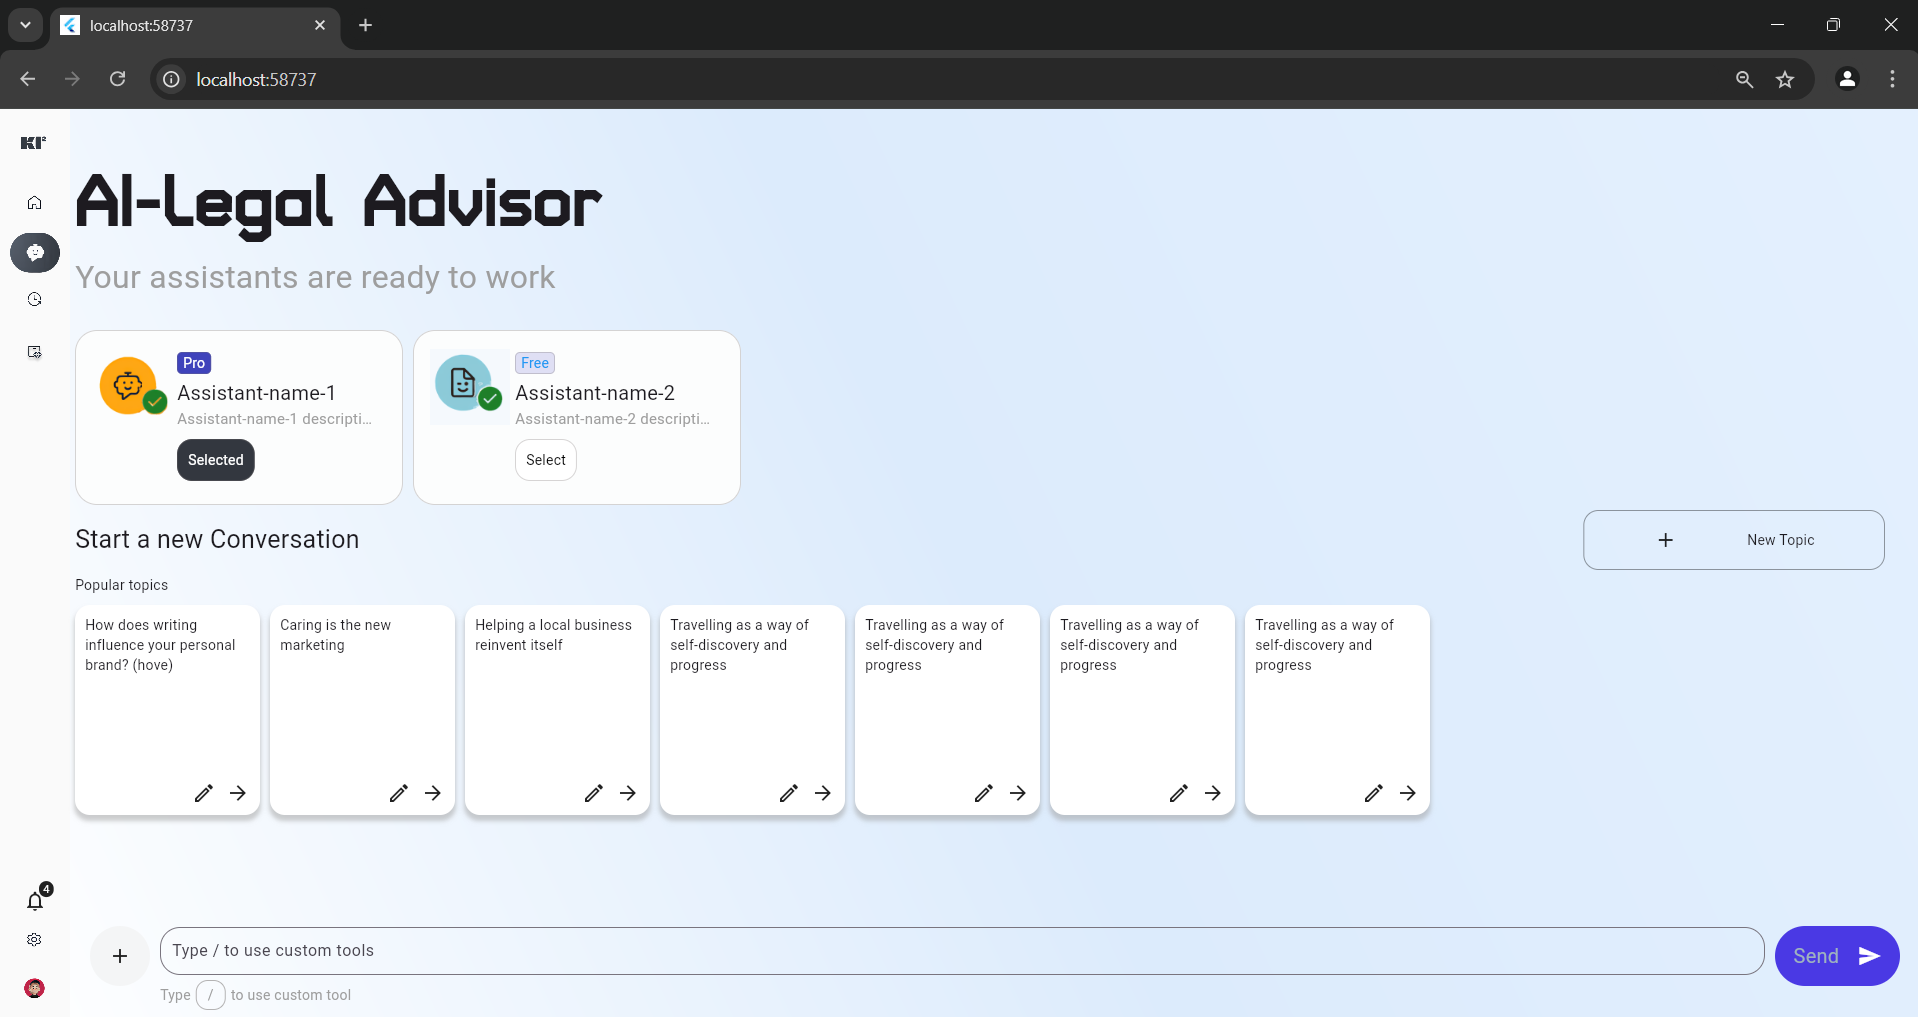
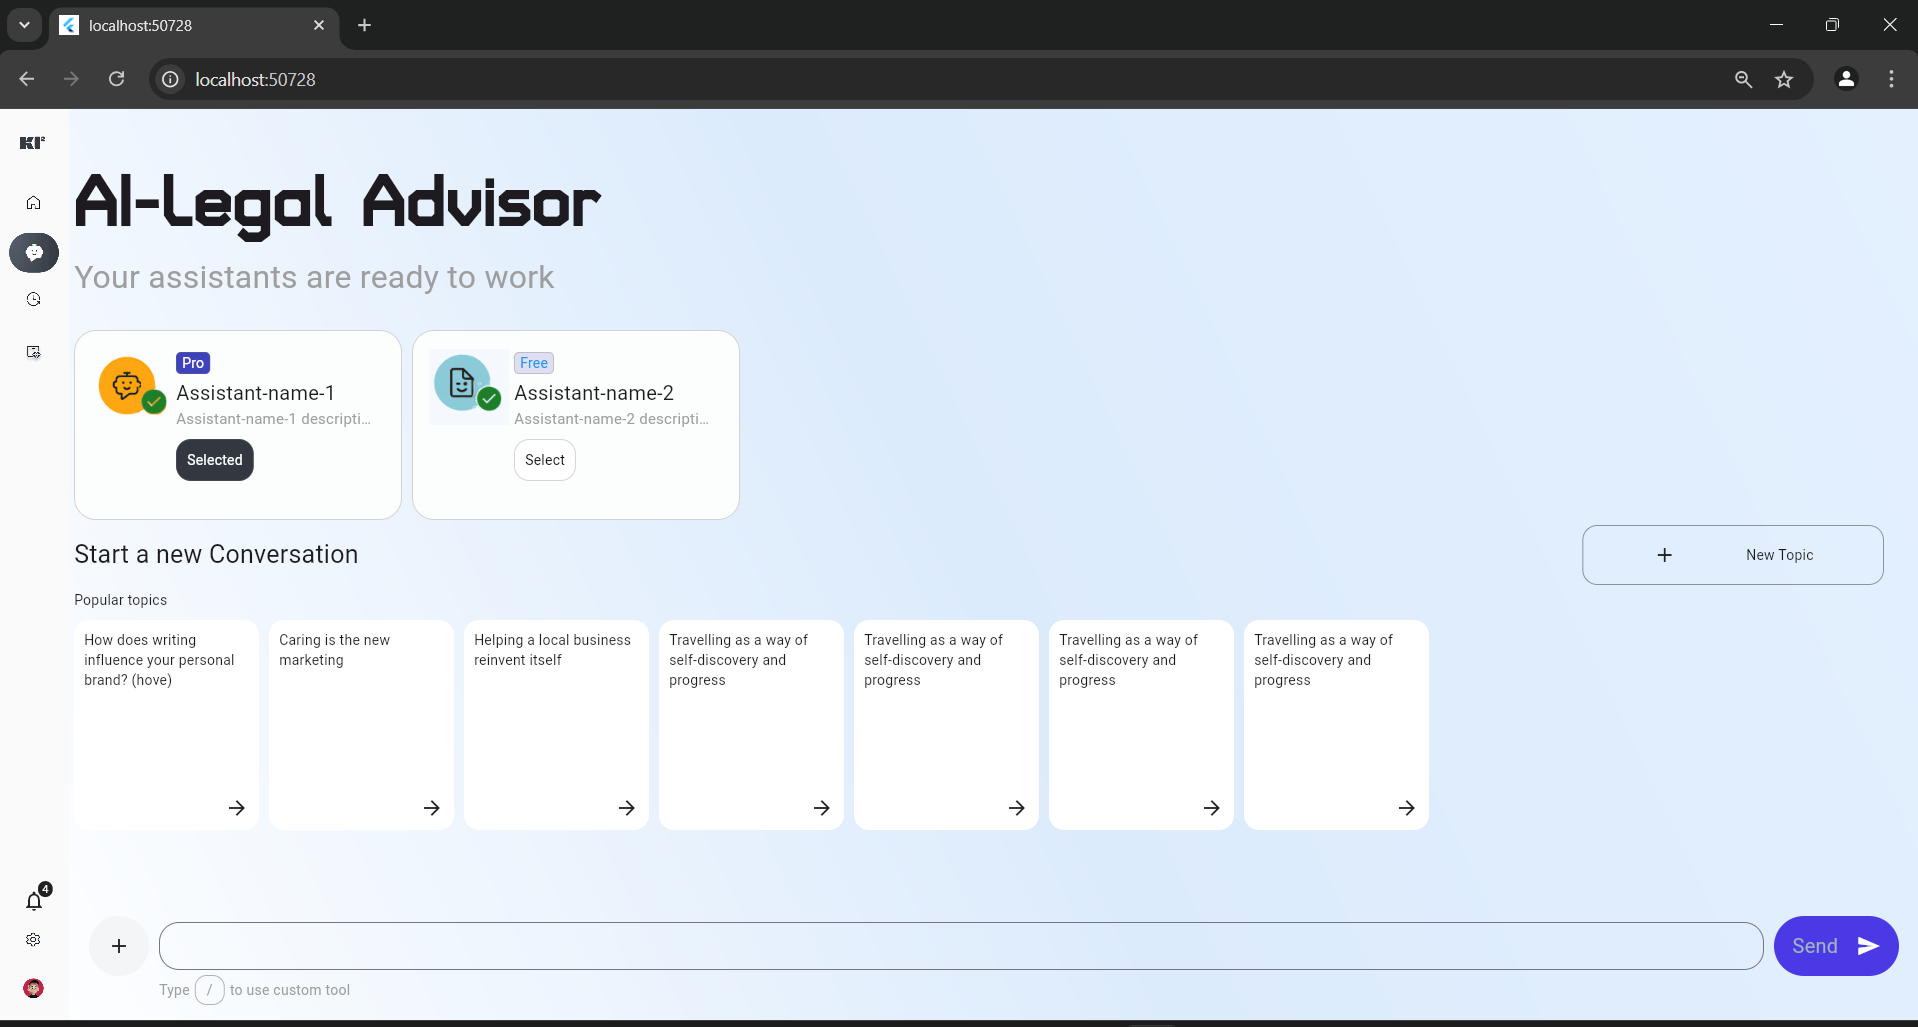
<Update><Image> image update for readme.md file

diff --git a/lib/pages/home/Components/home_main_body.dart b/lib/pages/home/Components/home_main_body.dart
@@ -39,9 +39,6 @@ class HomeMainBody extends StatelessWidget {
                       'AI-Legal Advisor',
                       style: GoogleFonts.turretRoad(fontSize: 70.rp, fontWeight: FontWeight.w900 // Adaptive font size
                           ),
-                      /*style: TextStyle(
-                          fontSize: 30.rp
-                      ),*/
                     ),
                     Text(
                       'Your assistants are ready to work',
@@ -183,7 +180,7 @@ class HomeMainBody extends StatelessWidget {
                     height: 100.mrp,
                     color: Colors.transparent,
                     child: Row(
-                      crossAxisAlignment: viewModel.isMobile(context) ? CrossAxisAlignment.start : CrossAxisAlignment.center,
+                      crossAxisAlignment: viewModel.isMobile(context) ? CrossAxisAlignment.center : CrossAxisAlignment.start,
                       children: [
                         Container(
                           width: 60.mrp,

diff --git a/lib/pages/home/responsive_layout/home_mobile_layout.dart b/lib/pages/home/responsive_layout/home_mobile_layout.dart
@@ -8,9 +8,10 @@ class MobileBody extends IView<HomeVM> {
   @override
   Widget buildWidget(BuildContext context, HomeVM viewModel) {
 
-    return DefaultTabController(
-      length: 4,
-      child: SafeArea(
+    return SafeArea(
+      top: true,
+      child: DefaultTabController(
+        length: 4,
         child: Scaffold(
           backgroundColor: Colors.transparent,
           appBar: AppBar(
@@ -55,7 +56,7 @@ class MobileBody extends IView<HomeVM> {
               ],
               indicator: BoxDecoration(
                 border: Border(
-                  bottom: BorderSide(color: Colors.transparent), // Removes TabBar underline
+                  bottom: BorderSide(color: Colors.transparent),
                 ),
               ),
             ),
